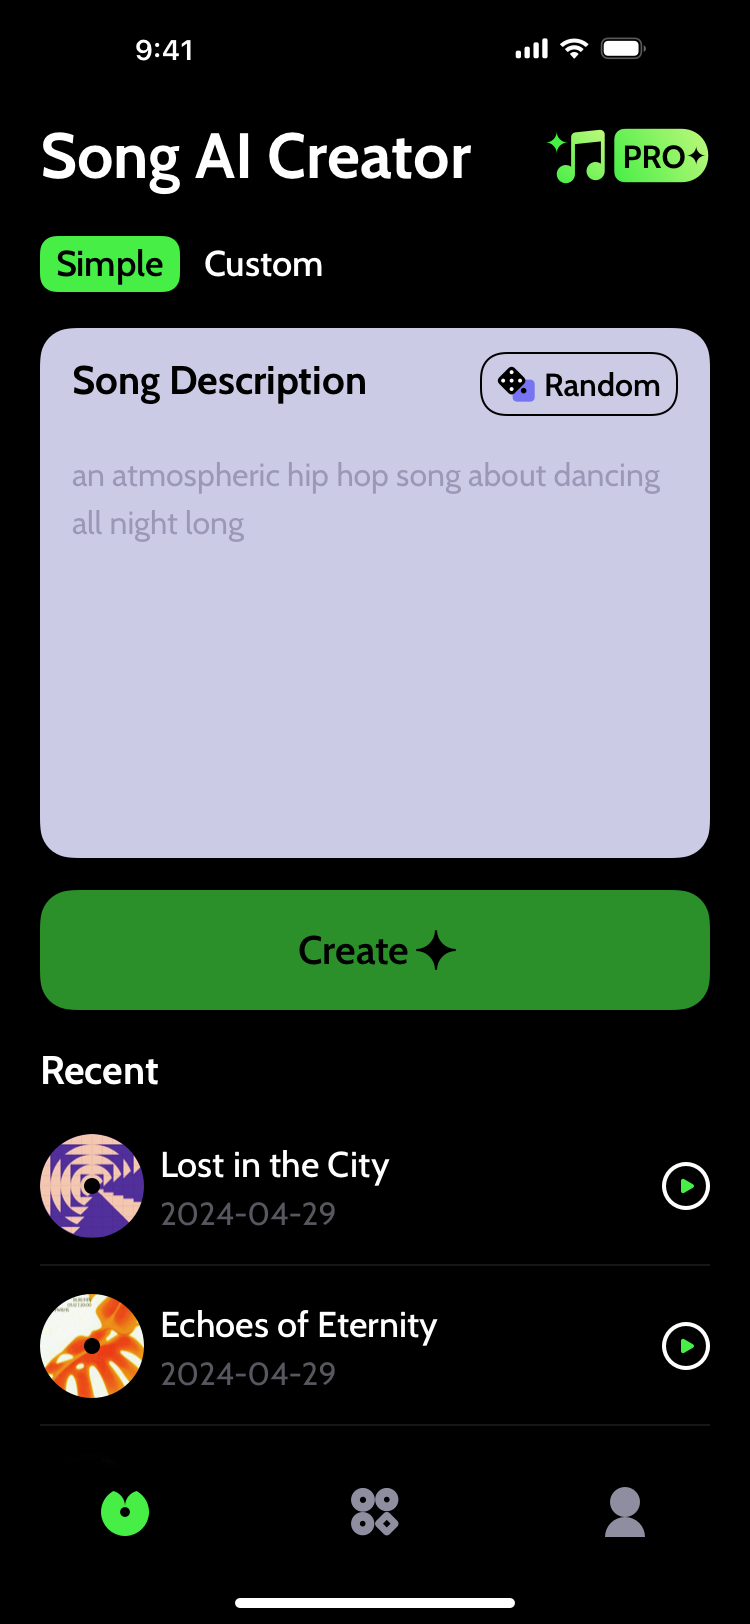
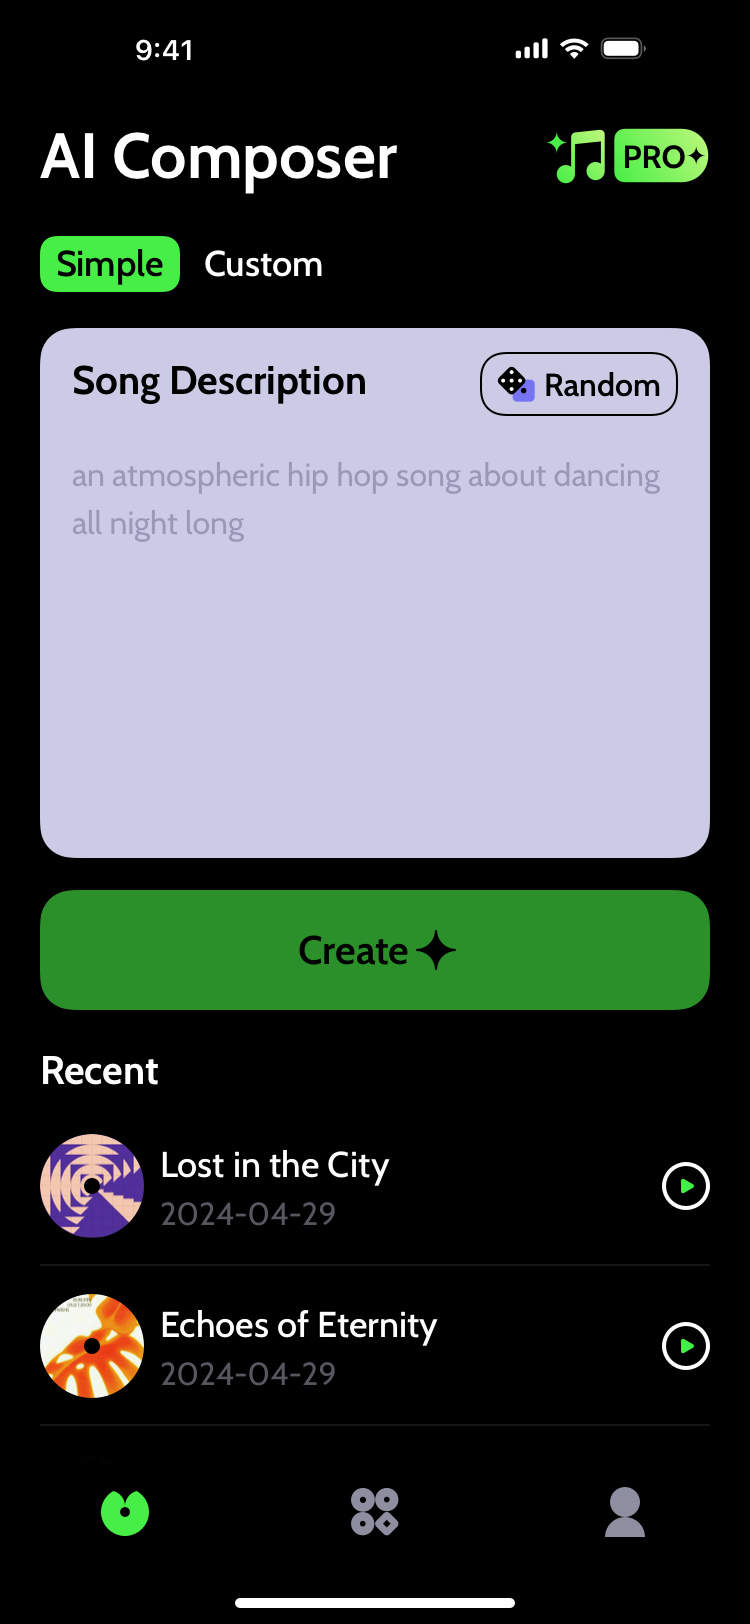
修改 名称

Changed region(s): [[0.0613, 0.0616, 0.6133, 0.1232]]

diff --git a/_pages/privacypolicy.md b/_pages/privacypolicy.md
@@ -77,4 +77,4 @@ Once you're a subscriber, you can manage your subscription from iTunes or on you
 You may at any time terminate your membership, in which case your membership will still be valid for the subscription time you have already paid for. Our auto renewable In-app purchase subscriptions can only be cancelled using the App Store cancelation service. If you would like to contact Apple, please use this link https://support.apple.com/en-us/HT202039. Subscription fees can be found in the mobile applications. We reserve the right to change the subscription fees from time to time.
 
 10. Questions
-If you have any additional questions or concerns about this Privacy Policy, please contact us at ca@hzchiyan.com.
+If you have any additional questions or concerns about this Privacy Policy, please contact us at support@5starland.com.
